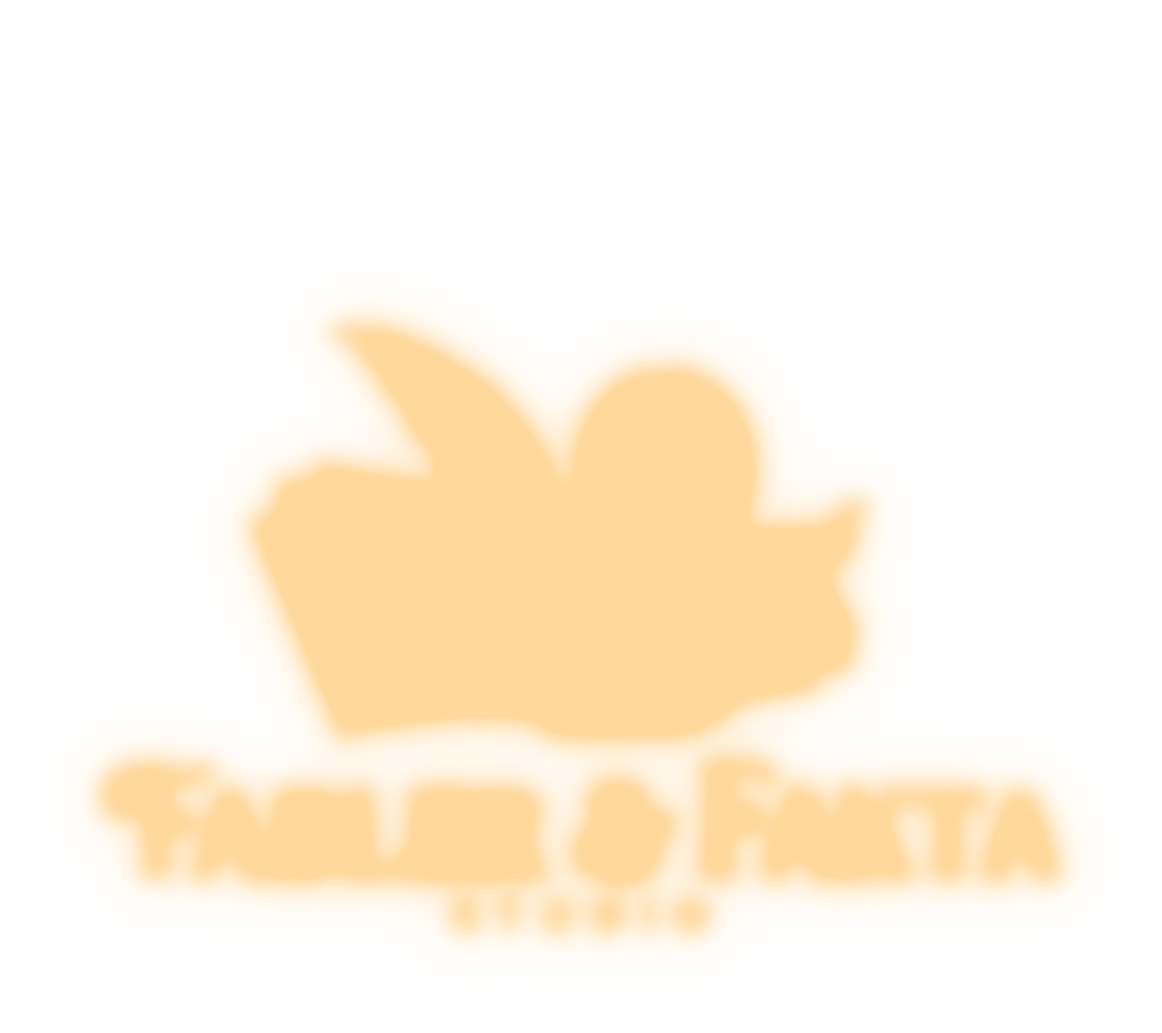
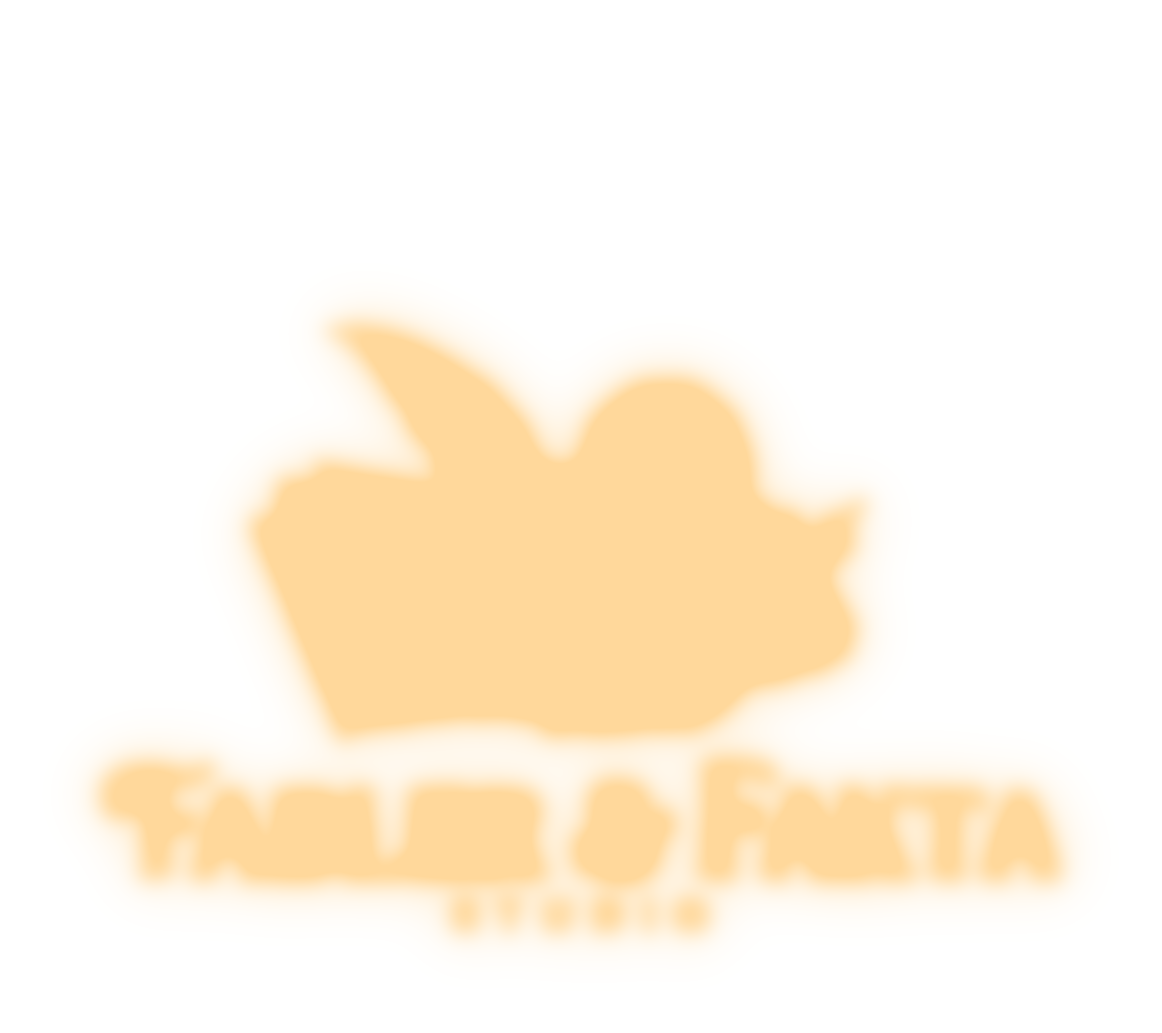
Ny utmaskning av lampa, boksida och penna från Cajsas bild
Claude-Session: https://claude.ai/code/session_01KKpdg1kibzxrmRUHzSLNaJ

diff --git a/index.html b/index.html
@@ -33,12 +33,12 @@
       </div>
       <div class="float"><div class="tilt">
         <picture class="glow-pic">
-          <source type="image/webp" srcset="assets/img/mobil-glow.webp?v=5">
-          <img class="layer-glow" src="assets/img/mobil-glow.png?v=5" alt="">
+          <source type="image/webp" srcset="assets/img/mobil-glow.webp?v=6">
+          <img class="layer-glow" src="assets/img/mobil-glow.png?v=6" alt="">
         </picture>
         <picture>
-          <source type="image/webp" srcset="assets/img/mobil-logo.webp?v=8">
-          <img class="layer-logo" src="assets/img/mobil-logo.png?v=8" alt="">
+          <source type="image/webp" srcset="assets/img/mobil-logo.webp?v=9">
+          <img class="layer-logo" src="assets/img/mobil-logo.png?v=9" alt="">
         </picture>
         <div class="text-glow" aria-hidden="true"></div>
         <div class="sparkles"></div>
